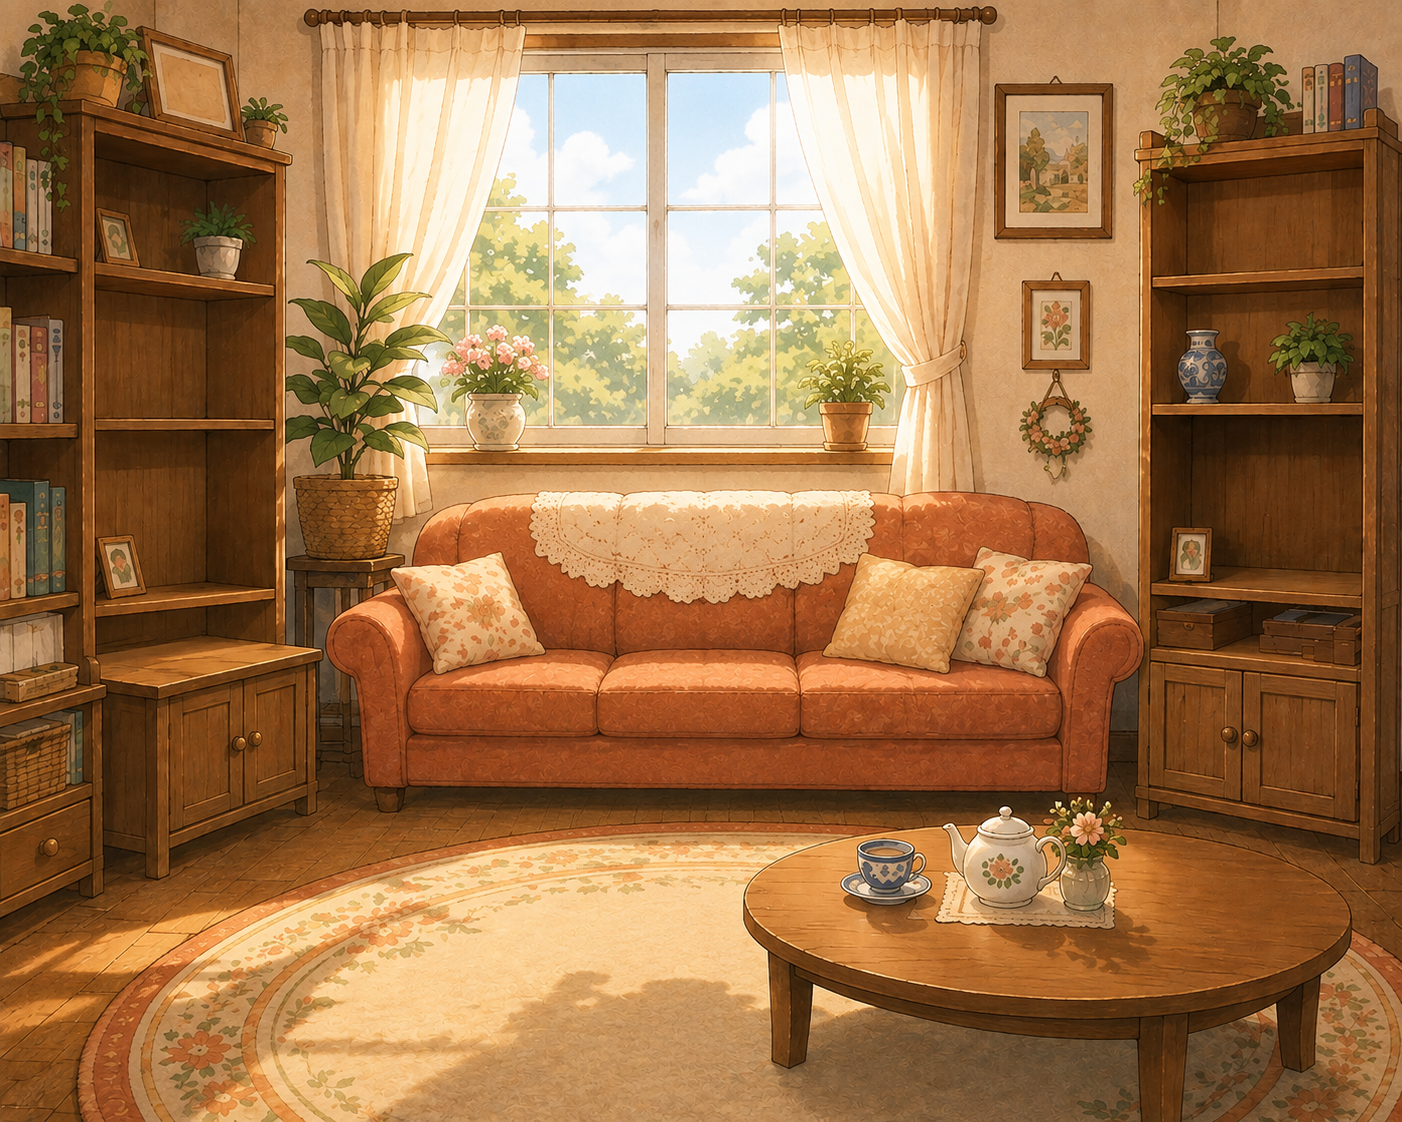
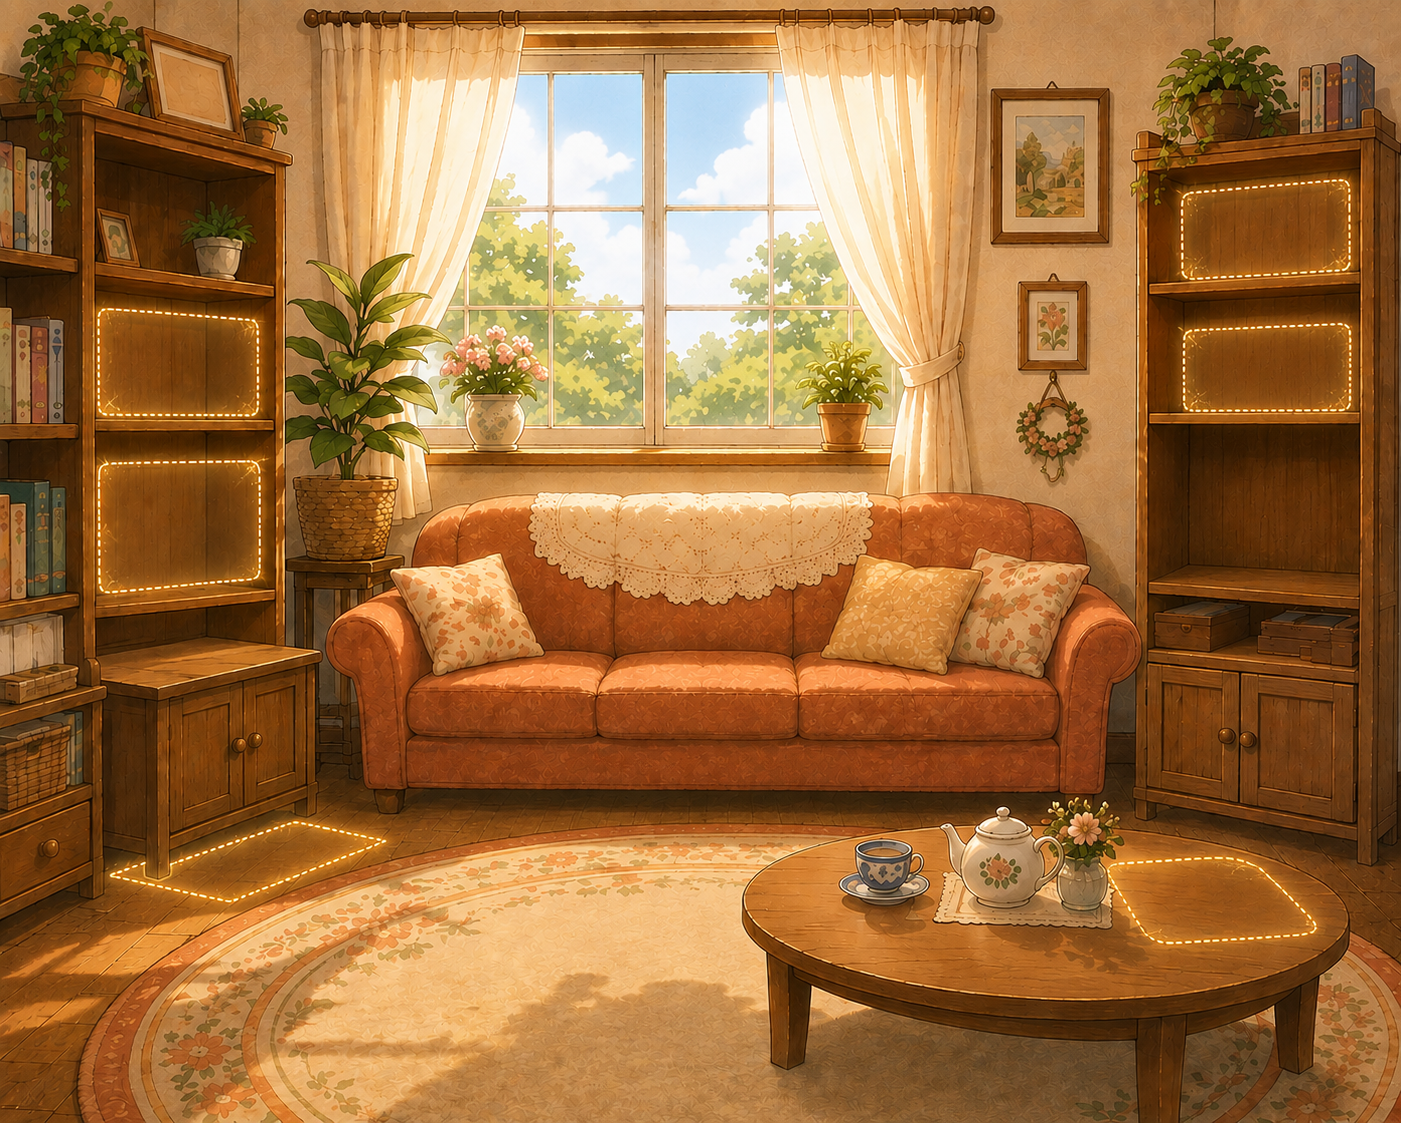
Swap in the gift-marked living room and place gifts in the highlighted slots
The new background explicitly outlines 6 display spots (2 per bookshelf,
the floor by the cabinet, and the coffee table). Located each outline's
pixel bounds and mapped all 6 souvenirs onto them, sizing each to sit
comfortably inside its slot without overflowing and adjusting position so
none of them read as floating (verified by rendering with every souvenir
gifted and Grandma both hidden and visible).

diff --git a/js/data.js b/js/data.js
@@ -286,8 +286,8 @@ VA.Data.DESTS = [
     ],
 
     souvenirs: [
-      { id: 'koala', label: 'Koala Toy', icon: '🐨', file: 'souvenir_koala.png', line: 'The koala, please.', jp: 'コアラをください。', reactJP: 'コアラ！', home: { slot: 'Sofa', x: 329, y: 327, size: 162 }, memory: { event: 'australia-memory', answer: 'I saw a koala.', answerJP: 'コアラを見たよ。' }, grandmaLine: 'I like my little koala.' },
-      { id: 'shell', label: 'Seashell', icon: '🐚', file: 'souvenir_shell.png', line: 'The seashell, please.', jp: '貝がらをください。', reactJP: '貝がら！', home: { slot: 'Cabinet top', x: 135, y: 385, size: 90, rot: -10 }, memory: { event: 'australia-memory', answer: 'I found a seashell.', answerJP: '貝がらを見つけたよ。' }, grandmaLine: 'This seashell makes me happy.' },
+      { id: 'koala', label: 'Koala Toy', icon: '🐨', file: 'souvenir_koala.png', line: 'The koala, please.', jp: 'コアラをください。', reactJP: 'コアラ！', home: { slot: 'Floor by cabinet', x: 141, y: 518, size: 96 }, memory: { event: 'australia-memory', answer: 'I saw a koala.', answerJP: 'コアラを見たよ。' }, grandmaLine: 'I like my little koala.' },
+      { id: 'shell', label: 'Seashell', icon: '🐚', file: 'souvenir_shell.png', line: 'The seashell, please.', jp: '貝がらをください。', reactJP: '貝がら！', home: { slot: 'Bookshelf shelf', x: 870, y: 145, size: 78, rot: -8 }, memory: { event: 'australia-memory', answer: 'I found a seashell.', answerJP: '貝がらを見つけたよ。' }, grandmaLine: 'This seashell makes me happy.' },
     ],
   },
 
@@ -426,8 +426,8 @@ VA.Data.DESTS = [
     ],
 
     souvenirs: [
-      { id: 'tower', label: 'Little Tower', icon: '🗼', file: 'souvenir_eiffel.png', line: 'The little tower, please.', jp: 'ミニエッフェル塔をください。', reactJP: 'エッフェル塔！', home: { slot: 'Bookshelf shelf', x: 103, y: 190, size: 82 }, memory: { event: 'france-memory', answer: 'I saw the Eiffel Tower.', answerJP: 'エッフェル塔を見たよ。' }, grandmaLine: 'Your little tower is beautiful.' },
-      { id: 'beret', label: 'Beret', icon: '👒', file: 'souvenir_beret.png', line: 'The beret, please.', jp: 'ベレーぼうをください。', reactJP: 'ベレーぼう！', home: { slot: 'Coffee table', x: 603, y: 498, size: 132 }, memory: { event: 'france-memory', answer: 'I bought a beret.', answerJP: 'ベレーぼうを買ったよ。' }, grandmaLine: 'This beret reminds me of Paris.' },
+      { id: 'tower', label: 'Little Tower', icon: '🗼', file: 'souvenir_eiffel.png', line: 'The little tower, please.', jp: 'ミニエッフェル塔をください。', reactJP: 'エッフェル塔！', home: { slot: 'Bookshelf shelf', x: 132, y: 152, size: 76 }, memory: { event: 'france-memory', answer: 'I saw the Eiffel Tower.', answerJP: 'エッフェル塔を見たよ。' }, grandmaLine: 'Your little tower is beautiful.' },
+      { id: 'beret', label: 'Beret', icon: '👒', file: 'souvenir_beret.png', line: 'The beret, please.', jp: 'ベレーぼうをください。', reactJP: 'ベレーぼう！', home: { slot: 'Coffee table', x: 829, y: 525, size: 100 }, memory: { event: 'france-memory', answer: 'I bought a beret.', answerJP: 'ベレーぼうを買ったよ。' }, grandmaLine: 'This beret reminds me of Paris.' },
     ],
   },
 
@@ -567,8 +567,8 @@ VA.Data.DESTS = [
     ],
 
     souvenirs: [
-      { id: 'goldpyr', label: 'Gold Pyramid', icon: '🔺', file: 'souvenir_pyramid.png', line: 'The gold pyramid, please.', jp: '金のピラミッドをください。', reactJP: '金のピラミッド！', home: { slot: 'Bookshelf shelf', x: 845, y: 112, size: 68 }, memory: { event: 'egypt-memory', answer: 'I saw a pyramid.', answerJP: 'ピラミッドを見たよ。' }, grandmaLine: 'I like my little pyramid.' },
-      { id: 'camel', label: 'Camel Toy', icon: '🐪', file: 'souvenir_camel.png', line: 'The camel toy, please.', jp: 'ラクダのおもちゃをください。', reactJP: 'ラクダ！', home: { slot: 'Bookshelf shelf', x: 178, y: 330, size: 100 }, memory: { event: 'egypt-memory', answer: 'I saw a camel.', answerJP: 'ラクダを見たよ。' }, grandmaLine: 'Your camel toy makes me smile.' },
+      { id: 'goldpyr', label: 'Gold Pyramid', icon: '🔺', file: 'souvenir_pyramid.png', line: 'The gold pyramid, please.', jp: '金のピラミッドをください。', reactJP: '金のピラミッド！', home: { slot: 'Bookshelf shelf', x: 870, y: 80, size: 64 }, memory: { event: 'egypt-memory', answer: 'I saw a pyramid.', answerJP: 'ピラミッドを見たよ。' }, grandmaLine: 'I like my little pyramid.' },
+      { id: 'camel', label: 'Camel Toy', icon: '🐪', file: 'souvenir_camel.png', line: 'The camel toy, please.', jp: 'ラクダのおもちゃをください。', reactJP: 'ラクダ！', home: { slot: 'Bookshelf shelf', x: 132, y: 252, size: 96 }, memory: { event: 'egypt-memory', answer: 'I saw a camel.', answerJP: 'ラクダを見たよ。' }, grandmaLine: 'Your camel toy makes me smile.' },
     ],
   },
 ];
